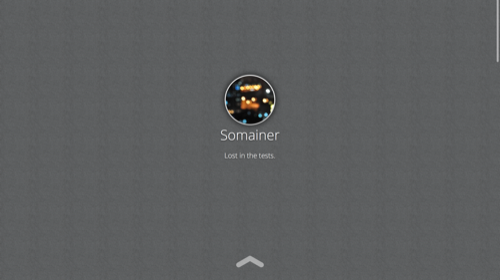
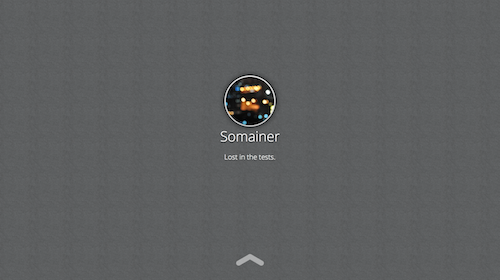
update screenshot for lab 2013#9

diff --git a/lab/2013/4/index.html b/lab/2013/4/index.html
@@ -22,7 +22,7 @@
 		font-weight: 400;
 	}
 	#bg1 {
-		position: absolute;
+		position: fixed;
 		top: -1600px;
 		left: 50%;
 		margin-left: -60%;
@@ -30,10 +30,10 @@
 		width: 120%;
 		z-index: 100;
 		border-radius: 350px;
-		box-shadow: 0 320px 130px #1f61be;
+		box-shadow: #103D9E 0 80px 220px, #1F61BE 0 320px 230px;
 	}
 	#bg2 {
-		position: absolute;
+		position: fixed;
 		top: 0;
 		height: 690px;
 		width: 100%;
@@ -67,7 +67,7 @@
 		font-size: 40px;
 		color: #FFF;
 		letter-spacing: 4px;
-		text-shadow: 0 0 2px #d5e9f6;
+		text-shadow: 0 0 2px #1559B6;
 	}
 	h1 a {
 		color: #FFF;

diff --git a/lab/index.html b/lab/index.html
@@ -22,7 +22,7 @@
 		font-weight: 400;
 	}
 	#bg1 {
-		position: absolute;
+		position: fixed;
 		top: -1600px;
 		left: 50%;
 		margin-left: -60%;
@@ -30,10 +30,10 @@
 		width: 120%;
 		z-index: 100;
 		border-radius: 350px;
-		box-shadow: 0 320px 130px #1f61be;
+		box-shadow: #103D9E 0 80px 220px, #1F61BE 0 320px 230px;
 	}
 	#bg2 {
-		position: absolute;
+		position: fixed;
 		top: 0;
 		height: 690px;
 		width: 100%;
@@ -67,7 +67,7 @@
 		font-size: 40px;
 		color: #FFF;
 		letter-spacing: 4px;
-		text-shadow: 0 0 2px #d5e9f6;
+		text-shadow: 0 0 2px #1559B6;
 	}
 	h1 a {
 		color: #FFF;
